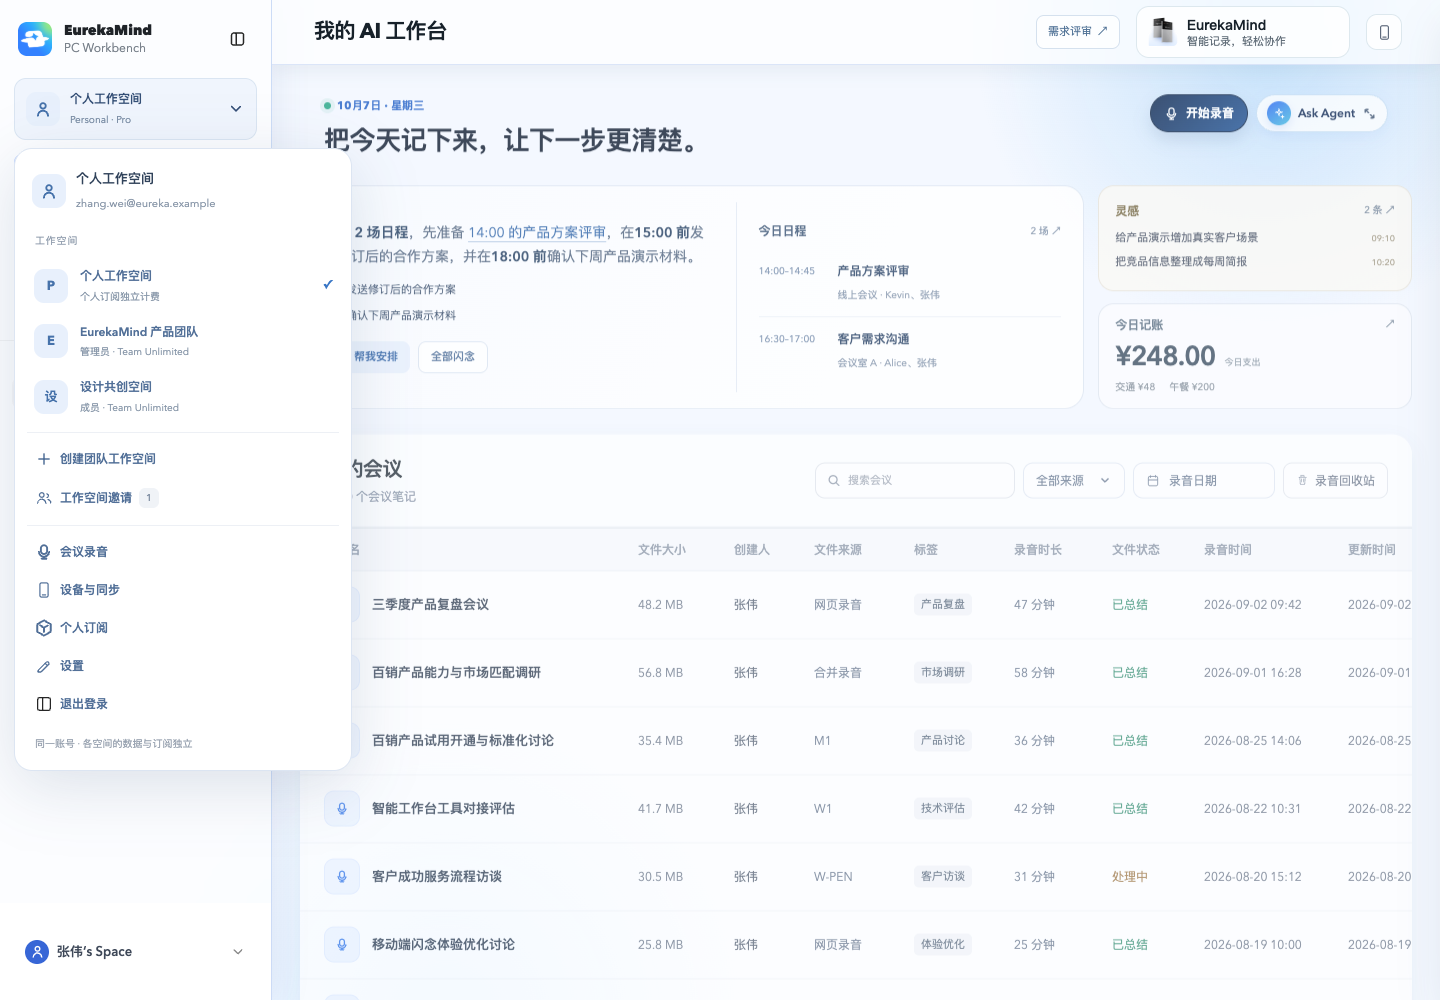
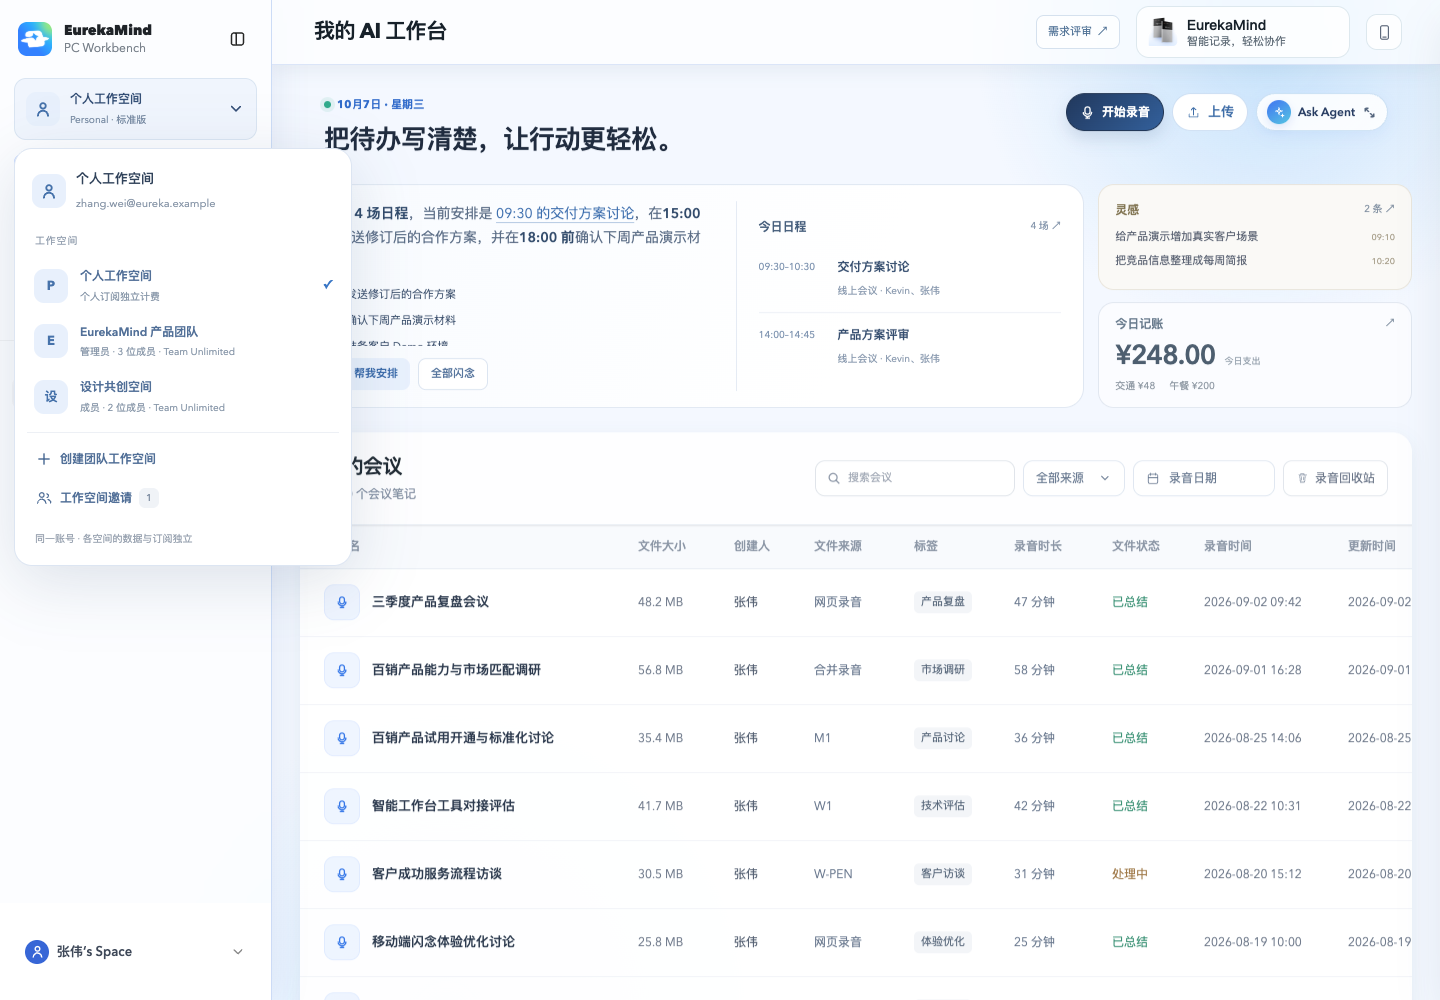
Show active team member counts and simplify the space chooser

diff --git a/src/prototype/one-to-one-reference/assets/workspace-ui.js b/src/prototype/one-to-one-reference/assets/workspace-ui.js
@@ -10,6 +10,7 @@
   const creditNumber=v=>Number(v).toLocaleString('zh-CN',{maximumFractionDigits:3});
   const date=v=>String(v||'').replace('T',' ').slice(0,16);
   const w=()=>M.get(data), isAdmin=()=>M.admin(w(),actor), userName=uid=>w().members.find(m=>m.id===uid)?.name||'已移除成员';
+  const memberCount=space=>space.members.filter(m=>m.status==='active').length;
   const icon=name=>`<svg class="ws-icon" aria-hidden="true"><use href="#ico-${name}"/></svg>`;
   const btn=(action,label,cls='',value='',extra='')=>`<button type="button" class="ws-btn ${cls}" data-ws-action="${action}" data-value="${esc(value)}" ${extra}>${label}</button>`;
   const badge=(text,kind='')=>`<span class="ws-badge ${kind}">${esc(text)}</span>`;
@@ -42,7 +43,7 @@
     document.title=`EurekaMind · ${w().name}`;
     $('[data-contacts-entry]')?.toggleAttribute('hidden',w().type==='team');
     const contactCount=$('[data-contacts-entry] .tree-count');if(contactCount)contactCount.textContent=w().type==='team'?String((w().contacts||[]).length):String(window.ContactsModel?.load('personal','personal').data.contacts.length||6);
-    switcher.innerHTML=`<span class="ws-space-avatar">${w().type==='personal'?icon('user'):icon('users')}</span><span class="ws-space-copy"><strong>${esc(w().name)}</strong><small>${w().type==='personal'?'Personal · '+esc(PS.current(w()).plan):'Team · '+(isAdmin()?'管理员':'成员')}</small></span>${icon('chevron')}`;
+    switcher.innerHTML=`<span class="ws-space-avatar">${w().type==='personal'?icon('user'):icon('users')}</span><span class="ws-space-copy"><strong>${esc(w().name)}</strong><small>${w().type==='personal'?'Personal · '+esc(PS.current(w()).plan):'Team · '+(isAdmin()?'管理员':'成员')+' · '+memberCount(w())+' 位成员'}</small></span>${icon('chevron')}`;
     switcher.title=`切换工作空间：${w().name}`;
     nav.innerHTML=w().type==='team'?`<div class="ws-nav-label">工作空间</div>${btn('page',icon('users')+'团队成员',page==='members'?'active':'','members')}${btn('page',icon('phone')+'设备',page==='devices'?'active':'','devices')}${isAdmin()?btn('page',icon('task')+'空间管理',['billing','settings','credits','audit'].includes(page)?'active':'','billing'):''}`:'';
     let history=$('#ws-history');if(!history){history=document.createElement('div');history.id='ws-history';nav.after(history);}
@@ -54,9 +55,9 @@
   }
   function closeMenu(){menu.hidden=true;switcher.setAttribute('aria-expanded','false');$('#user-card')?.setAttribute('aria-expanded','false');}
   function openMenu(anchor){
-    if(!menu.hidden){closeMenu();return;}menuAnchor=anchor;$('#user-menu')?.classList.remove('show');
-    menu.innerHTML=`<div class="ws-menu-head"><span class="ws-space-avatar">${icon(w().type==='team'?'users':'user')}</span><div><strong>${esc(w().name)}</strong><small>${esc(data.account.email)}</small></div></div><div class="ws-menu-caption">工作空间</div>${data.spaces.filter(s=>M.member(s)).map(s=>btn('switch',`<span class="ws-mini-avatar">${s.type==='personal'?'P':esc(s.name[0])}</span><span>${esc(s.name)}<small>${s.type==='personal'?'个人订阅独立计费':(M.admin(s)?'管理员':'成员')+' · Team Unlimited'}</small></span><b>${s.id===data.activeId?'✓':''}</b>`,'ws-menu-space',s.id)).join('')}<div class="ws-menu-divider"></div>${btn('plan',icon('plus')+'创建团队工作空间','ws-menu-item')}${btn('invites',icon('users')+`工作空间邀请 ${badge(data.invitations.filter(i=>i.status==='pending').length)}`,'ws-menu-item')}<div class="ws-menu-divider"></div>${btn('page',icon('mic')+'会议录音','ws-menu-item','files')}${btn('page',icon('phone')+'设备与同步','ws-menu-item','devices')}${btn('page',icon('task')+(w().type==='personal'?'个人订阅':'订阅与席位'),'ws-menu-item','billing')}${btn('settings',icon('edit')+'设置','ws-menu-item')}${btn('logout',icon('collapse')+'退出登录','ws-menu-item')}<p class="ws-menu-note">同一账号 · 各空间的数据与订阅独立</p>`;
-    menu.hidden=false;switcher.setAttribute('aria-expanded','true');const rect=anchor.getBoundingClientRect();menu.style.left=Math.min(Math.max(12,rect.left),innerWidth-Math.min(338,innerWidth-24)-12)+'px';menu.style.top='';menu.style.bottom='';if(rect.top>innerHeight/2)menu.style.bottom=(innerHeight-rect.top+8)+'px';else menu.style.top=Math.min(rect.bottom+8,innerHeight-200)+'px';
+    if(!menu.hidden&&menuAnchor===anchor){closeMenu();return;}closeMenu();menuAnchor=anchor;const accountMenu=anchor.id==='user-card';menu.setAttribute('aria-label',accountMenu?'我的账户与工作空间':'切换工作空间');menu.dataset.mode=accountMenu?'account':'spaces';$('#user-menu')?.classList.remove('show');
+    menu.innerHTML=`<div class="ws-menu-head"><span class="ws-space-avatar">${icon(w().type==='team'?'users':'user')}</span><div><strong>${esc(w().name)}</strong><small>${esc(data.account.email)}</small></div></div><div class="ws-menu-caption">工作空间</div>${data.spaces.filter(s=>M.member(s)).map(s=>btn('switch',`<span class="ws-mini-avatar">${s.type==='personal'?'P':esc(s.name[0])}</span><span>${esc(s.name)}<small>${s.type==='personal'?'个人订阅独立计费':(M.admin(s)?'管理员':'成员')+' · '+memberCount(s)+' 位成员 · Team Unlimited'}</small></span><b>${s.id===data.activeId?'✓':''}</b>`,'ws-menu-space',s.id)).join('')}<div class="ws-menu-divider"></div>${btn('plan',icon('plus')+'创建团队工作空间','ws-menu-item')}${btn('invites',icon('users')+`工作空间邀请 ${badge(data.invitations.filter(i=>i.status==='pending').length)}`,'ws-menu-item')}${accountMenu?`<div class="ws-menu-divider"></div>${btn('page',icon('mic')+'会议录音','ws-menu-item','files')}${btn('page',icon('phone')+'设备与同步','ws-menu-item','devices')}${btn('page',icon('task')+(w().type==='personal'?'个人订阅':'订阅与席位'),'ws-menu-item','billing')}${btn('settings',icon('edit')+'设置','ws-menu-item')}${btn('logout',icon('collapse')+'退出登录','ws-menu-item')}`:''}<p class="ws-menu-note">同一账号 · 各空间的数据与订阅独立</p>`;
+    menu.hidden=false;anchor.setAttribute('aria-expanded','true');const rect=anchor.getBoundingClientRect();menu.style.left=Math.min(Math.max(12,rect.left),innerWidth-Math.min(338,innerWidth-24)-12)+'px';menu.style.top='';menu.style.bottom='';if(rect.top>innerHeight/2)menu.style.bottom=(innerHeight-rect.top+8)+'px';else menu.style.top=Math.min(rect.bottom+8,innerHeight-200)+'px';
   }
   function switchSpace(uid){
     if(editing){confirm('退出编辑？','未保存的内容会丢失。',()=>{editing=false;switchSpace(uid);});return;}

diff --git a/tests/e2e/team-workspaces.spec.ts b/tests/e2e/team-workspaces.spec.ts
@@ -4,7 +4,7 @@ test.use({channel:process.env.PLAYWRIGHT_CHANNEL||undefined});
 const url='/prototype/one-to-one-reference/team-only-app.html?edition=personal&personal=1';
 const action=(page:Page,name:string,value?:string)=>page.locator(`[data-ws-action="${name}"]${value?`[data-value="${value}"]`:''}`).filter({visible:true}).first();
 async function switchTo(page:Page,id:string){await page.locator('#ws-switcher').click();await page.locator(`#ws-menu [data-ws-action=switch][data-value="${id}"]`).click();}
-async function section(page:Page,value:string){await page.locator('#ws-switcher').click();await page.locator(`#ws-menu [data-ws-action=page][data-value="${value}"]`).click();}
+async function section(page:Page,value:string){await page.locator('#user-card').click();await page.locator(`#ws-menu [data-ws-action=page][data-value="${value}"]`).click();}
 test.beforeEach(async({page})=>{await page.goto(url);});
 test('one account switches isolated workspaces, private files stay private and sharing is explicit',async({page})=>{
   await expect(page.locator('#meeting-list .home-meeting-row')).toHaveCount(20);
@@ -139,4 +139,25 @@ test('device binding guide routes to app and shop without changing device owners
   await switchTo(page,'personal');await section(page,'devices');await action(page,'bind').click();await expect(guide).toContainText('个人工作空间');await page.keyboard.press('Escape');
   await page.evaluate(()=>{const k='eureka:workspaces:v2',d=JSON.parse(localStorage.getItem(k)!);d.devices=[];localStorage.setItem(k,JSON.stringify(d));});await page.reload();await section(page,'devices');await action(page,'bind').click();await expect(guide).toContainText('下载 App');await expect(guide.locator('[name=serial]')).toHaveCount(0);
   await page.setViewportSize({width:390,height:844});await guide.getByRole('link',{name:'购买设备'}).scrollIntoViewIfNeeded();await expect(guide.getByRole('link',{name:'购买设备'})).toBeInViewport({ratio:1});expect(await guide.evaluate(e=>e.scrollWidth-e.clientWidth)).toBeLessThan(2);await page.keyboard.press('Escape');
+});
+
+
+test('space chooser shows active team counts and keeps account actions only in My menu',async({page})=>{
+  await page.setViewportSize({width:1440,height:1000});
+  await page.locator('#ws-switcher').click();
+  const menu=page.locator('#ws-menu');
+  await expect(menu).toHaveAttribute('data-mode','spaces');
+  await expect(menu.locator('[data-ws-action=page],[data-ws-action=settings],[data-ws-action=logout]')).toHaveCount(0);
+  await expect(menu.locator('[data-ws-action=switch][data-value=personal]')).not.toContainText('位成员');
+  await expect(menu.locator('[data-value=team-eureka]')).toContainText('3 位成员');
+  await expect(menu.locator('[data-value=team-design]')).toContainText('2 位成员');
+  if(process.env.PRD_CAPTURE)await page.screenshot({path:'src/prototype/prd/images/workspace-menu.png'});
+  await menu.locator('[data-value=team-eureka]').click();await expect(page.locator('#ws-switcher')).toContainText('3 位成员');
+  await page.locator('#ws-switcher').click();await expect(menu.locator('[data-ws-action=page],[data-ws-action=settings],[data-ws-action=logout]')).toHaveCount(0);
+  if(process.env.PRD_CAPTURE){await expect(page.locator('#ws-toast')).toBeHidden();await page.screenshot({path:'src/prototype/prd/images/workspace-switcher-team.png'});}
+  await page.locator('#user-card').click();await expect(menu).toHaveAttribute('data-mode','account');await expect(menu.locator('[data-ws-action=page][data-value=devices]')).toBeVisible();await expect(menu.locator('[data-ws-action=page][data-value=billing]')).toBeVisible();await expect(menu.locator('[data-ws-action=settings]')).toBeVisible();await expect(menu.locator('[data-ws-action=logout]')).toBeVisible();
+  await expect(page.locator('#ws-switcher')).toHaveAttribute('aria-expanded','false');await expect(page.locator('#user-card')).toHaveAttribute('aria-expanded','true');await page.keyboard.press('Escape');
+  await action(page,'page','members').click();await action(page,'member-accept','alice').click();await expect(page.locator('#ws-switcher')).toContainText('4 位成员');
+  await action(page,'member-remove','alice').click();await action(page,'confirm').click();await expect(page.locator('#ws-switcher')).toContainText('3 位成员');await page.reload();await expect(page.locator('#ws-switcher')).toContainText('3 位成员');
+  await switchTo(page,'team-design');await expect(page.locator('#ws-switcher')).toContainText('2 位成员');await switchTo(page,'personal');await expect(page.locator('#ws-switcher')).not.toContainText('位成员');
 });

diff --git a/tests/e2e/personal-calendar-subscription.spec.ts b/tests/e2e/personal-calendar-subscription.spec.ts
@@ -3,7 +3,7 @@ test.use({channel:process.env.PLAYWRIGHT_CHANNEL||undefined,viewport:{width:1440
 const url='/prototype/one-to-one-reference/team-only-app.html?edition=personal&personal=1';
 const action=(p:Page,n:string)=>p.locator(`[data-ws-action="${n}"]`).filter({visible:true}).first();
 const settings=async(p:Page)=>{await p.locator('#user-card').click();await p.locator('#ws-menu [data-ws-action=settings]').click();};
-const billing=async(p:Page)=>{await p.locator('#ws-switcher').click();await p.locator('#ws-menu [data-ws-action=page][data-value=billing]').click();};
+const billing=async(p:Page)=>{await p.locator('#user-card').click();await p.locator('#ws-menu [data-ws-action=page][data-value=billing]').click();};
 const submit=(p:Page)=>p.locator('#ws-dialog button[type=submit]').click();
 const snapshot=(p:Page)=>p.evaluate(()=>JSON.parse(localStorage.getItem('eureka:workspaces:v2')!));
 const capture=async(p:Page,name:string)=>{if(process.env.PRD_CAPTURE){await expect(p.locator('#ws-toast')).toBeHidden();await expect(p.locator('#toast')).not.toHaveClass(/show/);await p.screenshot({path:`src/prototype/prd/images/${name}.png`});}};

diff --git a/src/prototype/one-to-one-reference/team-only-app.html b/src/prototype/one-to-one-reference/team-only-app.html
@@ -5316,7 +5316,7 @@
   <link rel="stylesheet" href="assets/workspace-ui.css?v=14" />
   <script src="assets/workspace-model.js?v=12"></script>
   <script src="assets/personal-subscription-model.js?v=1"></script>
-  <script src="assets/workspace-ui.js?v=15"></script>
+  <script src="assets/workspace-ui.js?v=16"></script>
 <link rel="stylesheet" href="assets/recording-upload.css?v=1">
 <script src="assets/recording-upload.js?v=1"></script>
 <link rel="stylesheet" href="assets/personal-assets.css?v=2">

diff --git a/README.md b/README.md
@@ -85,3 +85,5 @@ EurekaMind 独立采用 Team Credits 共享池：所有成员的 Agent 会话及
 个人订阅按移动端参考演示标准版 400 分钟、Pro 月付 $17.99 / 年付 $99.99；Pro 每月 5,000 Credits 与 99,999 分钟。订单支持模拟成功、失败重试、取消、刷新续付、下载 USD 账单、取消自动续费和本浏览器恢复购买。付款成功才更新个人权益且一次入账，不改 Team。首期 Credits 可验证到账；后续月度刷新与真实自动扣款需后端服务。切换月/年套餐按全额重新起算演示，正式差价规则待确认。
 
 新增模型 `personal-subscription-model.js` 与 `personal-calendar-subscription.spec.ts` 覆盖订单幂等、存储失败、日历/弹窗/Agent 布局和各屏幕尺寸；PRD 的个人日程、个人订阅与验收章节已同步配图。
+
+顶部工作空间选择器与左下角账户菜单分别呈现：顶部仅空间切换、创建团队与邀请，页面快捷操作保留在「我的」。当前 Team 和下拉中的 Team 展示已加入成员人数（不含待接受或已移除成员），随成员状态更新。
